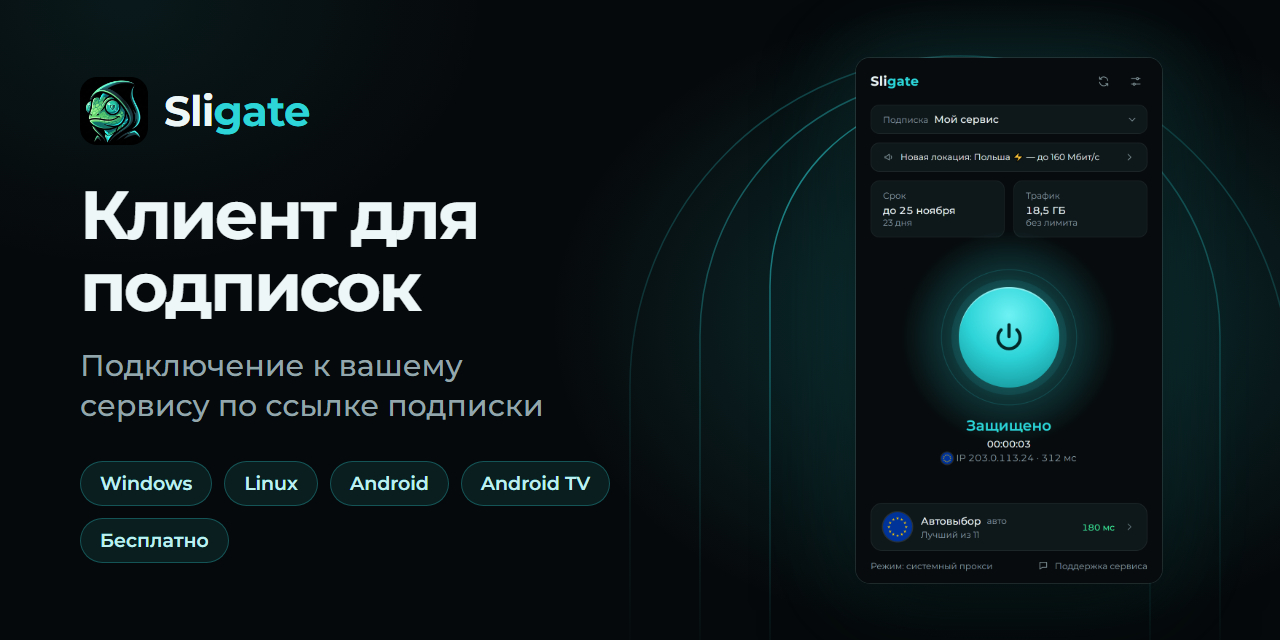
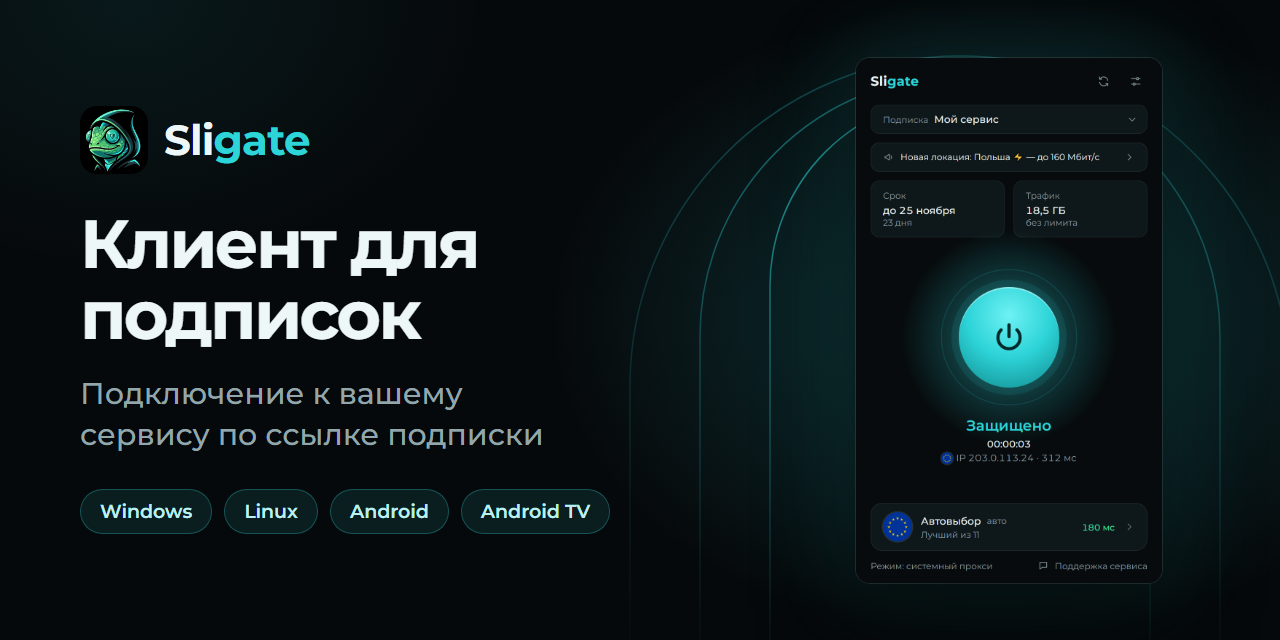
No word about being free: nothing here is paid

Changed region(s): [[0.0625, 0.125, 0.4688, 0.875]]

diff --git a/README.md b/README.md
@@ -7,7 +7,6 @@
 <p align="center">
   <a href="https://github.com/SligWORK/sligate/releases/latest"><img src="https://img.shields.io/github/v/release/SligWORK/sligate?style=flat-square&label=%D0%B2%D0%B5%D1%80%D1%81%D0%B8%D1%8F&color=0e7c80&labelColor=0d1a1d" alt="Последняя версия"></a>
   <a href="#платформы"><img src="https://img.shields.io/badge/Windows%20%C2%B7%20Linux%20%C2%B7%20Android%20%C2%B7%20Android%20TV-0e7c80?style=flat-square" alt="Платформы: Windows, Linux, Android, Android TV"></a>
-  <a href="https://github.com/SligWORK/sligate/releases/latest"><img src="https://img.shields.io/badge/%D0%B1%D0%B5%D1%81%D0%BF%D0%BB%D0%B0%D1%82%D0%BD%D0%BE-0e7c80?style=flat-square" alt="Бесплатно"></a>
 </p>
 
 <p align="center">
@@ -49,7 +48,7 @@
   </tr>
   <tr>
     <td width="66"><img src="assets/ic-noserver.png" width="40" alt="Без сервера"></td>
-    <td><b>Режим «Без сервера» (только Windows)</b><br>YouTube и Discord напрямую, без сервера и без подписки, бесплатно.</td>
+    <td><b>Режим «Без сервера» (только Windows)</b><br>YouTube и Discord напрямую, без сервера и без подписки.</td>
   </tr>
 </table>
 
@@ -85,7 +84,7 @@
 <details>
 <summary><b>Режим «Без сервера» (только Windows)</b></summary>
 
-YouTube и Discord напрямую, без сервера и без подписки, бесплатно. Файлы режима, около 7 МБ, скачиваются при первом включении. Telegram работает в приложении для компьютера, пока открыт Sligate. Звонки в Telegram режим не чинит, а перед игрой с античитом его нужно выключить.
+YouTube и Discord напрямую, без сервера и без подписки. Файлы режима, около 7 МБ, скачиваются при первом включении. Telegram работает в приложении для компьютера, пока открыт Sligate. Звонки в Telegram режим не чинит, а перед игрой с античитом его нужно выключить.
 
 </details>
 
